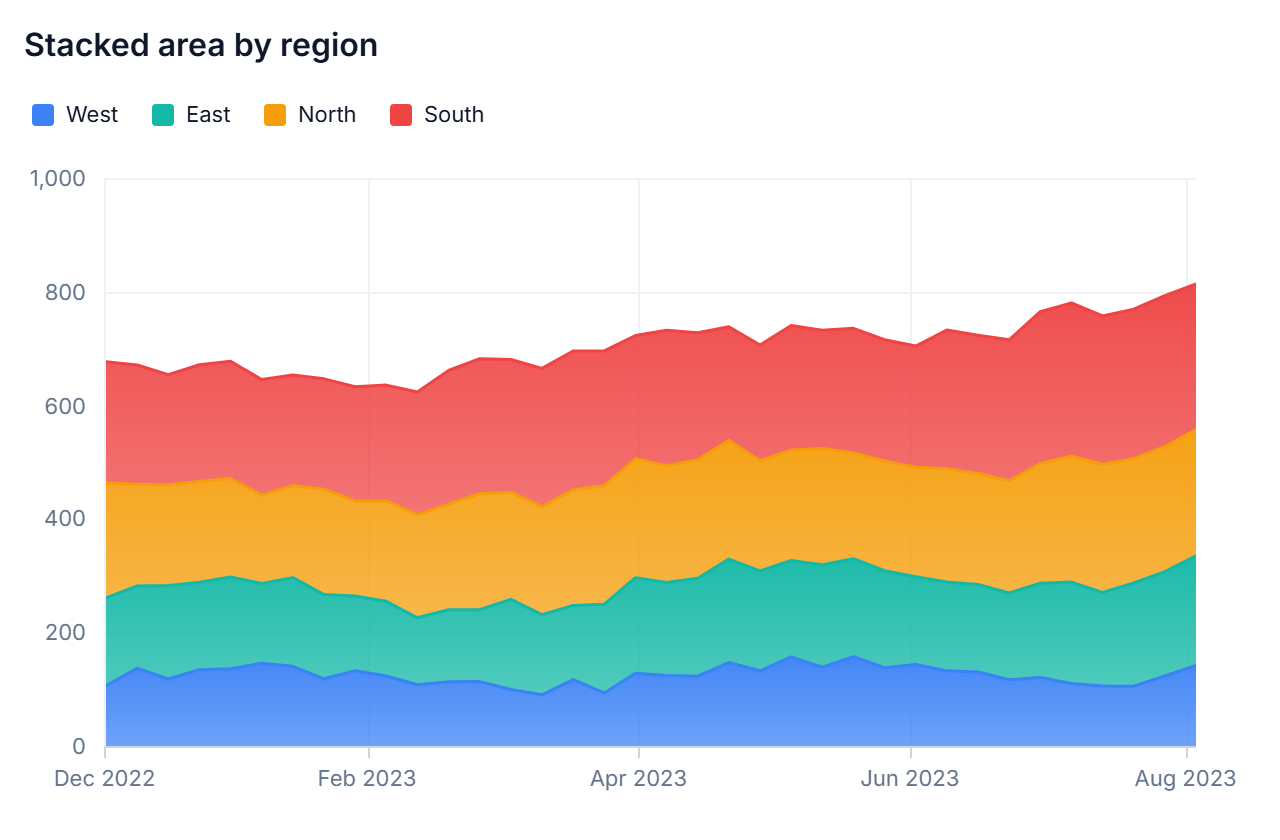
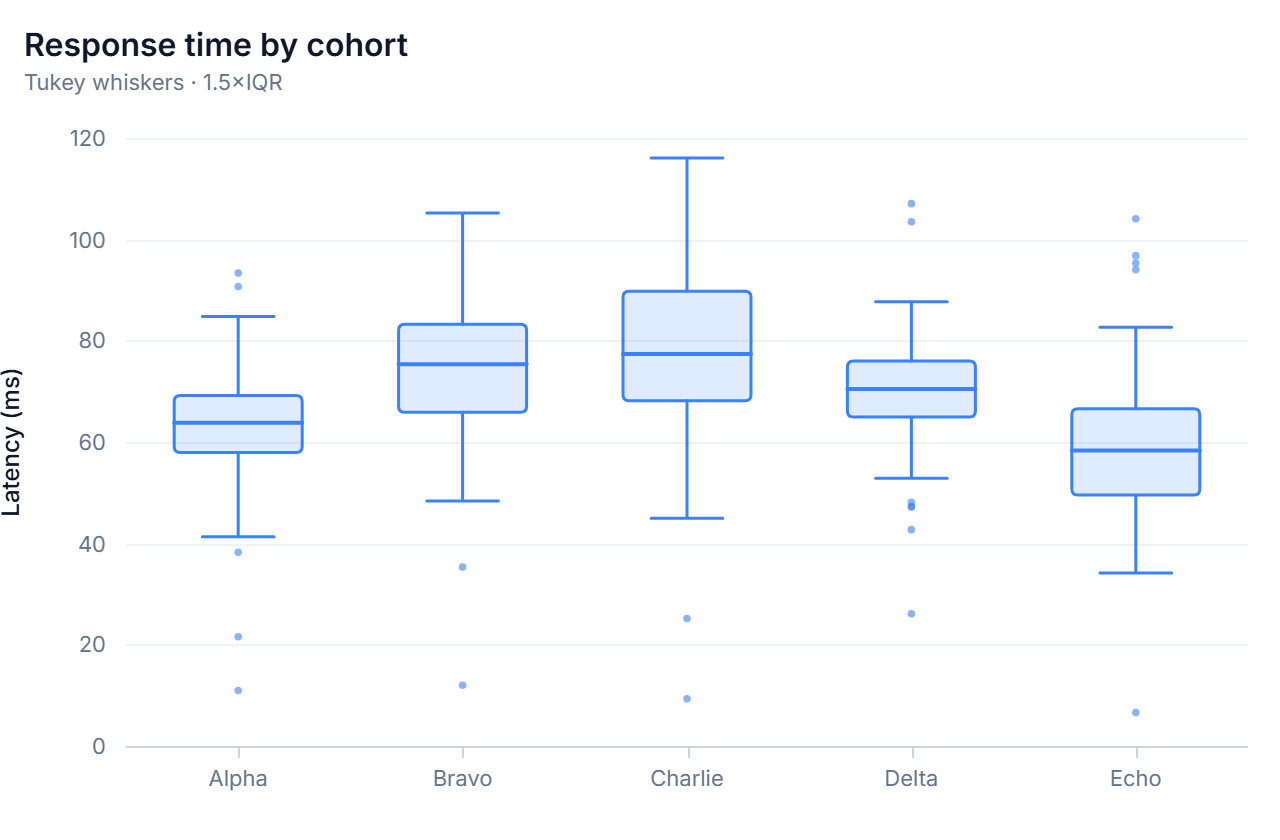
Use the box plot for the README 'one spec, three looks' trio
The box plot's whiskers, caps, and outliers show off the light/dark/sketch
modes (especially the hand-drawn renderer) more clearly than the area
chart did. Also add an optional name filter to the readme-shots harness so
a subset of images can be regenerated.

diff --git a/README.md b/README.md
@@ -50,7 +50,7 @@ Explore them live, resize them, and tweak the JSON in the Playground with `npm r
 
 ### One spec, three looks
 
-The same `area` chart in light, dark, and hand-drawn (`"sketch": true`) modes — just flip a field:
+The same `box` chart in light, dark, and hand-drawn (`"sketch": true`) modes — just flip a field:
 
 <table>
   <tr>